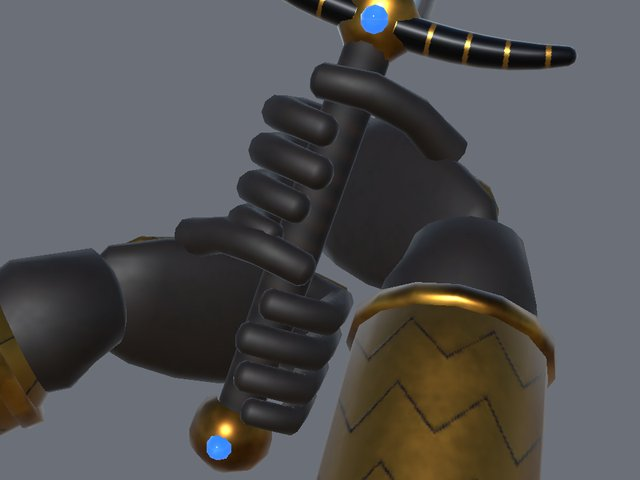
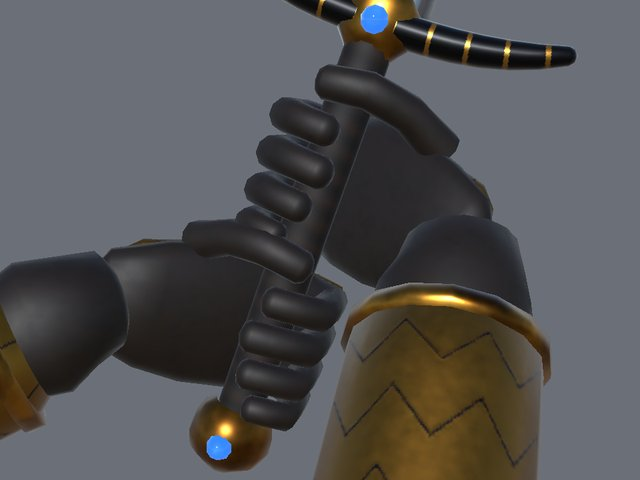
METINAR-FPP-ART-001: Unity verification of 034851e (clean clone): check errors=0, hilt-to-left-socket 74.7 mm; reports, screenshots, doc 7.0b (docs only)

diff --git a/docs/METINAR-FPP-ART-001.md b/docs/METINAR-FPP-ART-001.md
@@ -135,6 +135,24 @@ rest pose has the grip, guard, blade and left hand in the lower part of the fram
 **V3 regeneration:** results of the V3 clips are in section 7.0 (added with the Unity run). The tables below 7.0
 are the V1 run (`a5d7e27`/`cd3d02c`) and are kept as history.
 
+### 7.0b V3 + Attack left-hand dodge + grip fit — tested SHA `034851e` (final)
+
+New clean clone `C:\Users\mroma\MetinAR-FPPART-V3C` from GitHub with a fresh Library, Unity 6000.6.4f1, batch mode, editor only,
+15:41–16:07 Europe/Warsaw (before #33 RULE 16:08). The commit after it only adds this section and the reports/screenshots.
+
+| Gate (`034851e`) | Result | Evidence |
+|---|---|---|
+| Blender build (box) | sockets vs contract 0 mm / 0°; IK wrist gap 0 mm; **0 penetrating hand vertices in every clip**; grip clearance R 3.8 / L 2.1 mm; hilt-to-left-socket min **74.8 mm at 0.42 s** | `blender_build_report.json` |
+| `dotnet test tests/AssetPipeline.Tests` (box) | PASS 181/181 (incl. dodge values and an engine-free ≥ 50 mm test over the whole Attack) | — |
+| Unity compile | exit 0, 0 `error CS` in all step logs | `unity-batch-summary.txt` |
+| `FppArtAssetBuilder.BuildBatch` ×2 | exit 0 both times; `git status` clean after each build and at the end | ″ |
+| `FppArtAssetCheck.RunBatch` | **PASS: errors = 0**. Attack: min hilt-to-`B_Socket_GripL` **74.7 mm at 0.42 s** (≥ 50 mm check); 0 hand vertices in the sword proxies (Idle/Attack/Aura); B_Socket_Sword ≤ 0.52 mm / 0.00°, B_Socket_GripL ≤ 0.56 mm / 0.00°; sword nested at 0.75; 4 sockets in the RightGrip frame 0.00 mm off; grip clearance 3.8 mm (R), 2.5 mm (Aura); 28 screenshots | `unity-asset-check.txt` |
+| `AssetPipelineValidator.RunBatch` | PASS: files=26 errors=0 warnings=0 | `unity-asset-validation.txt` |
+| `MetinARQaChecks.Run` | PASS: scenes=2 prefabs=4 missingScripts=0 failures=0 | log |
+| `AssetPipelineSelfTest.Run` | PASS 14/14 | `unity-batch-summary.txt` (note) |
+| Visibility (est. A31 portrait) | Idle grip 201/201, tip 66/201, left 201/201; Attack grip 55/73, tip 24/73, left 39/73 (the left hand leaves the frame during the dodge); Aura grip/left 116/116 | `unity-asset-check.txt` |
+| APK / A31 / FPS | **NOT RUN, UNVERIFIED** | — |
+
 ### 7.0 V3 (contract `v3-a31-retest`) — first run, before the left-hand dodge (history)
 
 These are the results of `22d2b1a`, before the dodge. The final run is in 7.0b.
